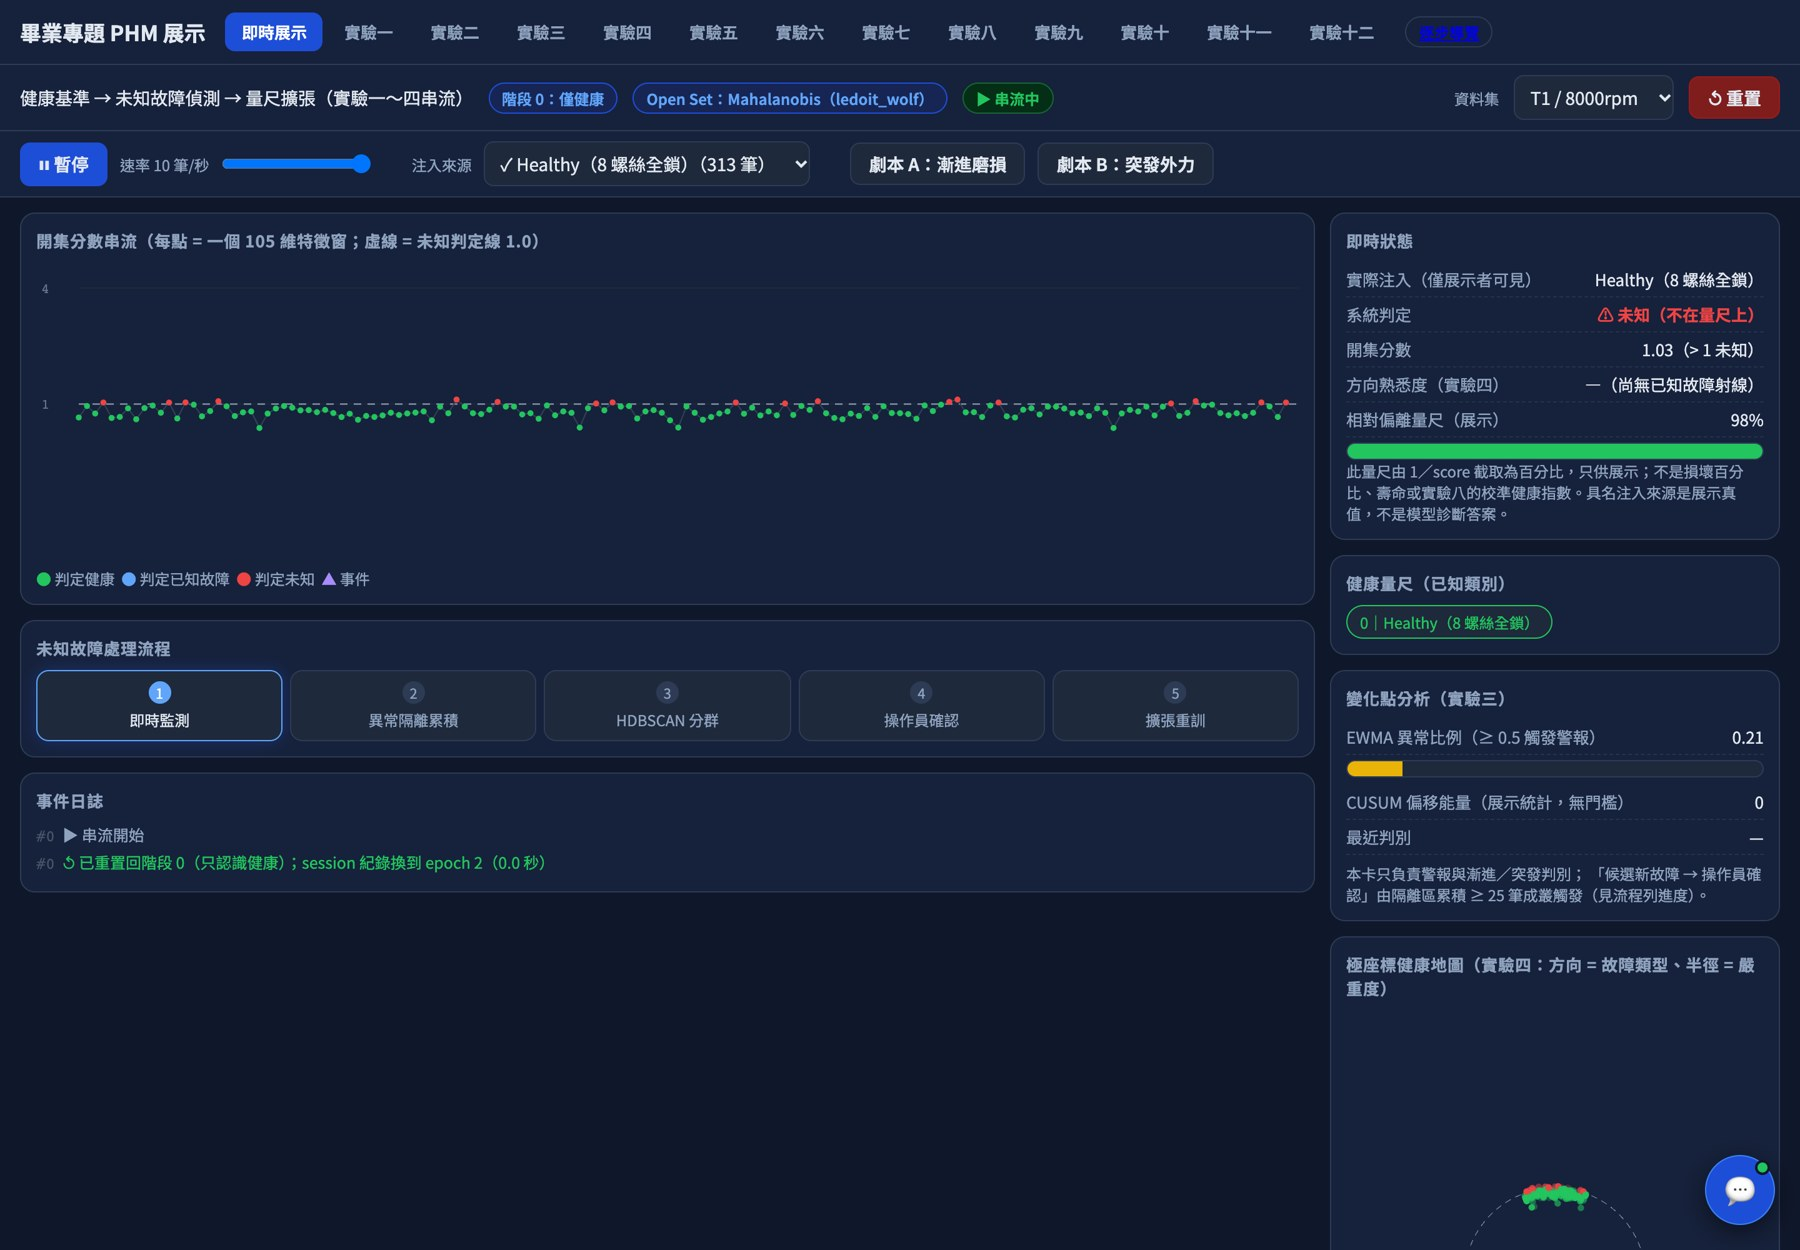
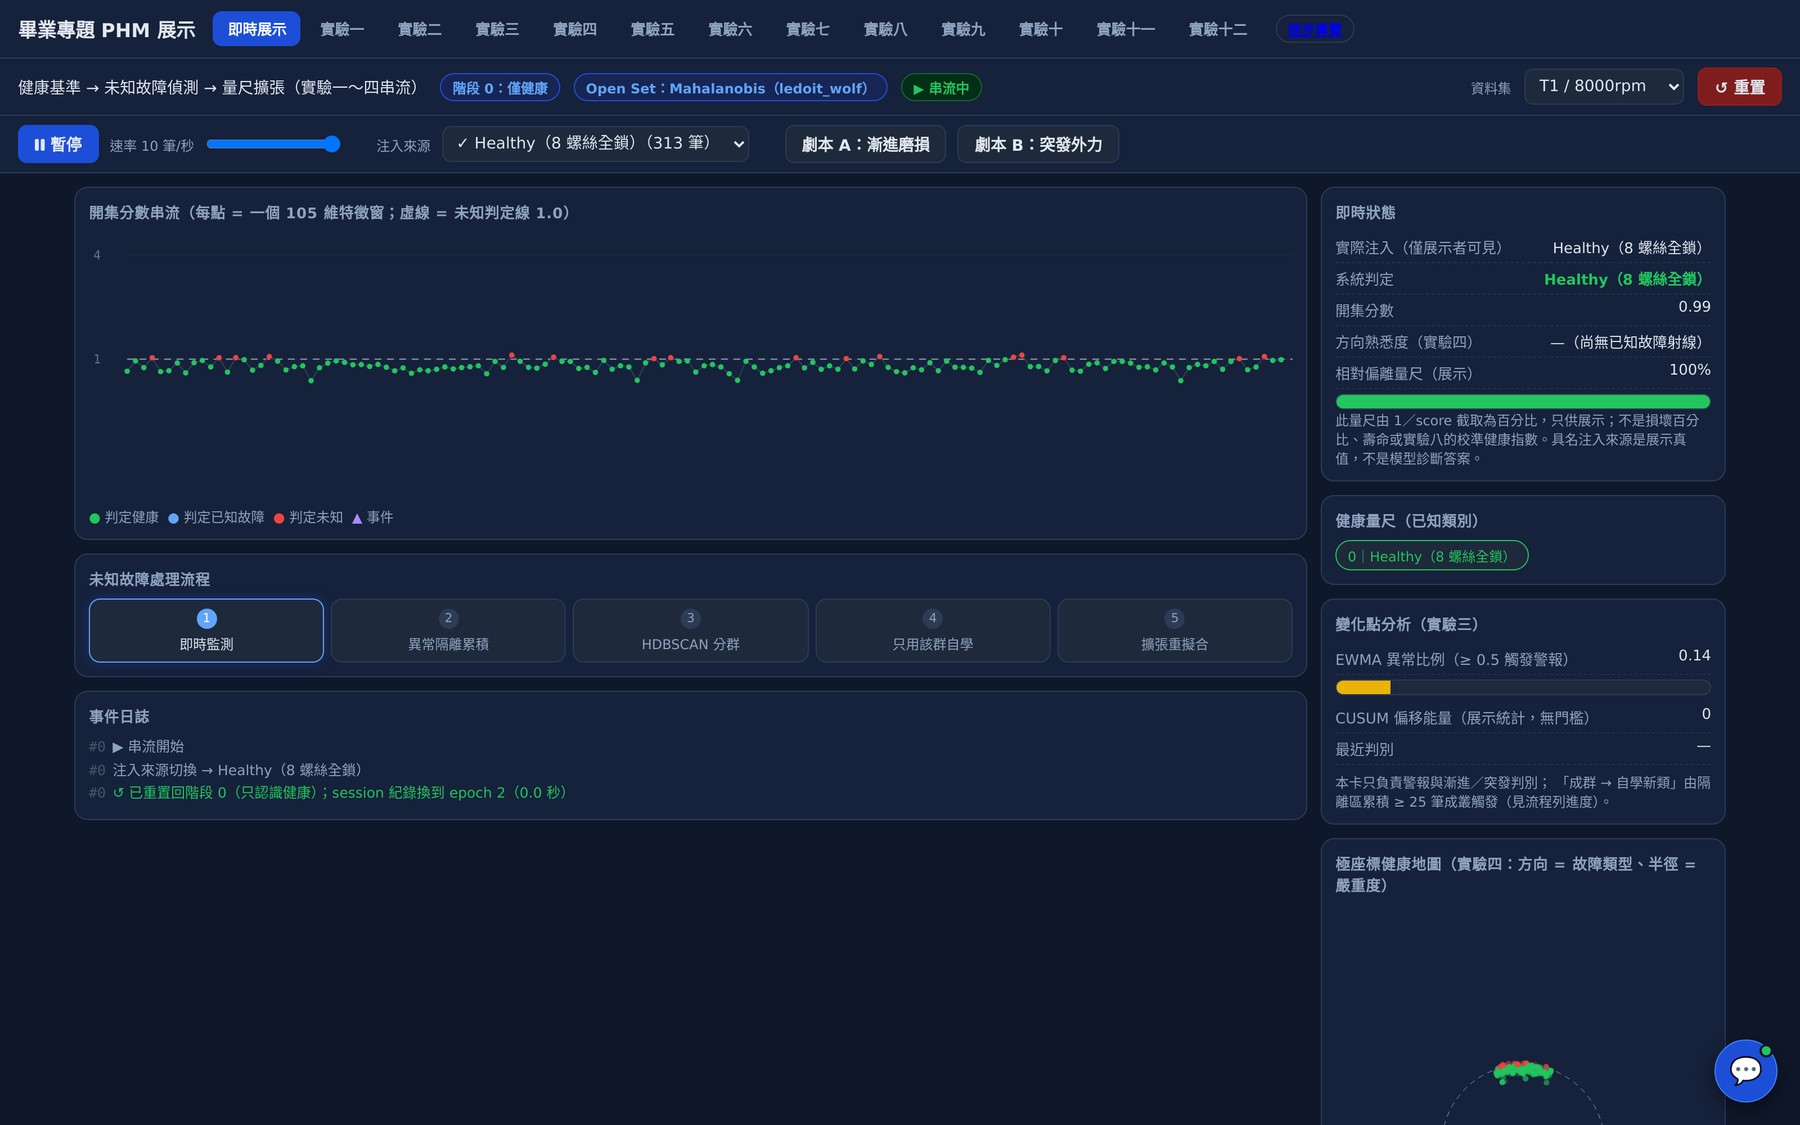
文件(報告)：圖4.1～4.4 以 Aero 部署站（ecf8d67）重拍，改寫為自動納入流程，圖4.4 與 CLI 11-56-10 一致
Refs #287
Refs #315

diff --git a/docs/FinalReport/畢業專題報告.md b/docs/FinalReport/畢業專題報告.md
@@ -776,7 +776,7 @@ legacy 矩陣（最近類別判讀，#266）：已知五類的對角為 464／46
 | --- | --- | --- | --- |
 | 同工況拒絕 | 九工況未知召回 100%；Ledoit–Wolf 健康誤報：實驗六平均 7.11%，實驗一 T1／8000 rpm 為 10.94% | 健康 holdout 每工況只有 52～75 筆；AUROC 已飽和，要看固定門檻 | 統計模型，不需 GPU；換工況就要重建基準 |
 | 新類自學（`adopt()`） | 預設設定三個 seed 各 7／9 段對上本階段配置、各有一種配置從未被認出；健康混入 1,430 筆無一進隔離區 | 外部評估集與回放列同屬一個配置池；首頁與導覽走同一個 `adopt()`，沒有另一條讀完整池的路徑 | 依賴自適應密度階梯；關掉後只剩 1～5 段對上 |
-| Web 回放 | 實驗頁直接呼叫實驗模組的 `run()`／`iter_run()`；導覽與首頁兩方法各 595 筆逐筆零差異 | 播放速率不是採樣時鐘；首頁的事後對照訊息會顯示群的真實多數 | 首頁、實驗頁與導覽可在 Spark 啟動操作（圖4.1～圖4.4）；沒有系統性量測回應時間 |
+| Web 回放 | 實驗頁直接呼叫實驗模組的 `run()`／`iter_run()`；導覽與首頁兩方法各 595 筆逐筆零差異 | 播放速率不是採樣時鐘；首頁的事後對照訊息會顯示群的真實多數 | 首頁、實驗頁與導覽可在 Aero／Spark 的 Docker 部署啟動操作（圖4.1～圖4.4 擷取自 Aero）；沒有系統性量測回應時間 |
 | 使用者滿意度 | 尚未進行 | 尚未進行 | 尚未進行 |
 
 **同工況拒絕。** 正確性方面，第 4.3 節的結果一致：同一工況內九種配置全部被拒絕。健康誤報是主要的誤差來源，Ledoit–Wolf 的九工況平均為 7.11%，T1／8000 rpm 單格為 10.94%，都高於名目 5%。適當性方面，健康 holdout 每個工況只有 52～75 筆，一筆誤報就是 1.3～1.9 個百分點；正式矩陣三個 seed 的健康接受率標準差約 4 個百分點，實驗七在同一格上 Ledoit–Wolf 與 k-NN 也差了 6 筆，所以「誤報約 5%～11%」比單一數字更貼近事實。AUROC 全為 1 表示這個任務在同工況下太容易，方法之間的差異幾乎只剩門檻校準。可行性方面，擬合只用健康 train 的 RobustScaler 與 Ledoit–Wolf 估計，沒有訓練迴圈，不需要 GPU（README「即時展示介面」一節）。代價是每個工況都要先收一批健康資料：實驗五的 72 格跨工況組合健康接受率全為 0，基準不能跨工況共用。
@@ -789,39 +789,39 @@ legacy 矩陣（最近類別判讀，#266）：已知五類的對角為 464／46
 
 **Web 回放。** 正確性方面，依 AGENT.md 鐵則 2，判定、分群與統計邏輯只放在 `src/experiments/` 與 `src/core/`；實驗頁由 `src/web/experiments.py` 呼叫各實驗的 `run()` 或 `iter_run()`，首頁 `src/web/live.py` 與導覽 `src/web/guide.py` 共用 `ScaleGrowthSession` 與 `OpenSetMonitor`。實驗十三在 Aero 以 `8756c51` 重跑的 `output/navigation_regression/2026-10-23-12-48-17/summary.json` 中，Mahalanobis 與 k-NN 各逐筆配對 595 筆，不一致 0 筆，兩條路徑都在故障窗到達 75 筆時產生候選、同一拍以 `adopt()` 學成 `discovered-1`（51 筆，只切 30／10／11，fit audit `navigation_fit_v2` 標明來源是隔離區候選群），並對劇本 A、B 各發出警報；配對數與候選到達筆數與 `confirm()` 版的 `02-04-52` 及總手冊第 8.17 節引用的 Lineage `3aa554f` 結果相同。零差異只表示兩條路徑算出相同結果，兩條路徑也可能一起判錯。
 
-下面四張截圖是同一次操作的順序。圖4.1 是首頁只認識健康時的串流：注入來源為健康，分數大多貼在判定線 1.0 下方，偶有幾點略為超線，對應約一成的健康誤報；相對偏離量尺取 `clip(1/score)`，與實驗八的健康指數定義不同（總手冊第 9.4 節）。
+下面四張截圖是同一次操作的順序。圖4.1 是首頁只認識健康時的串流：注入來源為健康，分數大多貼在判定線 1.0 下方，偶有幾點略為超線；偵測統計表上健康來源 135 窗、判未知 11.1%，對應約一成的健康誤報。相對偏離量尺取 `clip(1/score)`，與實驗八的健康指數定義不同（總手冊第 9.4 節）。
 
 ![圖4.1 首頁健康串流](figures/fig4-1_首頁健康串流.jpg)
 
 圖4.1 首頁健康串流
 
-> 圖名在 Word 置中。2026-10-23 擷取自在 Spark（aarch64）執行的網頁原型，main commit `7a2c7ca`，資料集 T1／8000rpm，seed 42，速率 10 筆／秒。
+> 圖名在 Word 置中。2026-10-23 擷取自 Aero（x86_64）部署站 `phm.jw-albert.dev`（Docker，main commit `ecf8d67`），資料集 T1／8000rpm，seed 42，速率 10 筆／秒；以無頭 Chromium 依序操作截圖。
 
-切換注入來源為 `7screws` 後，分數立刻升到 30 以上，變化點卡判為突發（這次是直接切換來源，沒有走劇本 A）。圖4.2 是隔離區累積後 HDBSCAN 找出候選群的畫面：事件日誌記錄第 216 筆時隔離區 65 筆、已試 5 次仍未成群，第 256 筆找到 80 筆、純度 100% 的群，流程列停在當時的「操作員確認」步驟。
+切換注入來源為 `7screws` 後，分數立刻升到 30 以上，變化點卡判為突發（這次是直接切換來源，沒有走劇本 A）。圖4.2 是成群當拍的畫面：事件日誌記錄第 211 筆時隔離區 65 筆、已試 5 次仍未成群；第 251 筆 HDBSCAN 找到 80 筆的群（蒐集區間 #147～#250），同一拍以 `adopt()` 納入為「模型新類 1」（群中位分數 36.7，大於已知校準最大 1.12），重新擬合後清理隔離區 25 筆，沒有操作員確認。新類自學卡與事件日誌最後一行的「事後對照」由注入真值算出：這一群的真實多數是 `7screws`、純度 100%，只供展示者對照，不進模型。
 
-![圖4.2 首頁候選群確認](figures/fig4-2_首頁候選群確認.jpg)
+![圖4.2 首頁自動納入新類](figures/fig4-2_首頁自動納入新類.jpg)
 
-圖4.2 首頁候選群確認
+圖4.2 首頁自動納入新類
 
-> 圖名在 Word 置中。2026-10-23 擷取自在 Spark（aarch64）執行的網頁原型，main commit `7a2c7ca`，資料集 T1／8000rpm，seed 42，速率 10 筆／秒。擷取時首頁還有操作員確認按鈕（`confirm()`），候選卡在按下確認之前就顯示純度與注入的真實配置；#287 之後首頁在成群當拍自動 `adopt()`，這張圖裡的確認步驟與候選卡已不存在；真值只出現在事後對照訊息與新類自學卡標成「事後對照」的欄位。
+> 圖名在 Word 置中。2026-10-23 擷取自 Aero（x86_64）部署站 `phm.jw-albert.dev`（Docker，main commit `ecf8d67`），資料集 T1／8000rpm，seed 42，速率 10 筆／秒；以無頭 Chromium 依序操作截圖。
 
-擷取時按下確認後，首頁呼叫當時的 `confirm()`，讀 `7screws` 的完整資料池重新擬合。圖4.3 的事件日誌顯示第 276 筆納入為類別 1、重新擬合完成（0.1 秒），健康量尺多了「7 螺絲」，之後同配置的窗判為已知故障（藍點），分數回到 1 以下。現行首頁改在成群當拍 `adopt()`，只用群內樣本，量尺上的類名是「模型新類 1」而不是配置名；這兩張圖尚未以 #287 之後的程式重拍。
+圖4.3 是納入後約 15 秒：量尺多了 `discovered-1`，之後同配置的窗大多判為已知故障（藍點），分數回到 1 附近。偵測統計表依模型狀態分段：擴張前 `7screws` 105 窗全部判未知；擴張後 169 窗中判為新類 88.8%、判為未知 11.2%、判為健康 0.0%。這 169 窗只抽未拿去擬合 `discovered-1` 的列（#296），不是批次的外部評估集。
 
-![圖4.3 首頁確認後量尺擴張](figures/fig4-3_首頁確認後量尺擴張.jpg)
+![圖4.3 首頁擴張後量尺](figures/fig4-3_首頁擴張後量尺.jpg)
 
-圖4.3 首頁確認後量尺擴張
+圖4.3 首頁擴張後量尺
 
-> 圖名在 Word 置中。2026-10-23 擷取自在 Spark（aarch64）執行的網頁原型，main commit `7a2c7ca`，資料集 T1／8000rpm，seed 42，速率 10 筆／秒。擷取時的量尺擴張使用當時的 `confirm()` 讀完整配置池；該路徑已在 #287 移除。
+> 圖名在 Word 置中。2026-10-23 擷取自 Aero（x86_64）部署站 `phm.jw-albert.dev`（Docker，main commit `ecf8d67`），資料集 T1／8000rpm，seed 42，速率 10 筆／秒；以無頭 Chromium 依序操作截圖。
 
-實驗頁的實驗二是批次 `run()`。圖4.4 是在實驗頁按「執行」後的結果表：九段都形成新類、最後 10 類（「發現」欄只表示該段成形了新類，不代表辨識到該段配置，#286），逐段列出到候選所需筆數、群大小、純度、本類 holdout，以及外部評估集在該段學會當下被任一新類接受、判進對應新類的比例。擷取時的程式還沒有拒收重複列，表上的數字與當時 CLI 的 seed 42 輸出 `output/exp2_scale_growth/2026-10-23-01-30-54/stages.csv`（`46ed4d5`）相同，例如 `7screws` 段到候選 75 筆、群 45 筆、外部評估被任一新類接受 56.9%（`eval_known_rate`＝0.5692），`5screws` 段為 51 筆、29 筆、46.5%。現行程式（`b6e2b97`）的對應輸出 `11-56-10` 中，`7screws` 段相同，`5screws` 段為 63 筆、37 筆、93.0%，`4screws` 段未成群。這兩欄是各段剛學會時的值（欄名標「學會當下」），不是表4.9 使用的 `final_eval`。
+實驗頁的實驗二是批次 `run()`。圖4.4 是在實驗頁按「執行」後的結果：上方 KPI 為對上本階段配置 7／9、形成新類 8 次、最終 9 類（#286）；表格逐段列出形成新類與是否對上本階段配置、到候選所需筆數、群大小、純度、本類 holdout，以及外部評估集在該段學會當下被任一新類接受、判進對應新類的比例。表上數字與 CLI 輸出 `output/exp2_scale_growth/2026-10-23-11-56-10/stages.csv`（`b6e2b97`，Aero）逐段相同，例如 `5screws` 段到候選 63 筆、群 37 筆、學會當下外部評估 93.0%，`4screws` 段未成群，`3screws` 段學到的群事後多數是 `4screws`。這兩欄是各段剛學會時的值（欄名標「學會當下」），不是表4.9 使用的 `final_eval`。同一程式在 Spark（aarch64）上的逐段數字不同（例如 `2screws` 段 90 筆、群 69），跨架構的差異由 #315 追蹤，本報告的實驗二數字一律以 Aero 為準。
 
 ![圖4.4 實驗頁實驗二結果](figures/fig4-4_實驗頁實驗二結果.jpg)
 
 圖4.4 實驗頁實驗二結果
 
-> 圖名在 Word 置中。2026-10-23 擷取自在 Spark（aarch64）執行的網頁原型，main commit `7a2c7ca`，資料集 T1／8000rpm，seed 42，速率 10 筆／秒（上方背景串流）。這次是瀏覽器內執行，結果只存到 `output/web_server/{ts}/experiments/`，沒有另存 CLI 輸出；表中數字與 CLI 輸出 `2026-10-23-01-30-54` 一致。
+> 圖名在 Word 置中。2026-10-23 擷取自 Aero（x86_64）部署站 `phm.jw-albert.dev`（Docker，main commit `ecf8d67`），資料集 T1／8000rpm，seed 42，速率 10 筆／秒；以無頭 Chromium 依序操作截圖。 這次是瀏覽器內執行，結果只存到部署站的 `output/web_server/{ts}/experiments/`，沒有另存 CLI 輸出。截圖環境缺「⏵」字型，「邊跑邊畫」按鈕前的圖示顯示為方框。
 
-適當性方面，網頁每秒送幾筆是播放節奏，不是採樣時鐘。擷取時首頁的注入來源與候選卡直接顯示配置名稱（圖4.2）；現行首頁沒有候選卡，真值只出現在注入來源、事後對照訊息，以及新類自學卡標成「事後對照」的真實多數與純度欄。注入來源是展示者選的真值，不是系統推論出的故障名稱，講解時要和導覽、批次實驗分開。可行性方面，四張截圖顯示擷取時（`7a2c7ca`，#287 之前）首頁與實驗頁可在 Spark 上完成「健康監測→隔離→候選→確認→擴張」與實驗二批次執行；現行首頁在成群當拍自動 `adopt()`，沒有確認步驟。畫面上記錄的單次耗時是重新擬合 0.1 秒（圖4.3）與實驗二整次執行 2.47 秒（圖4.4）。這些是單次觀察，沒有在 Aero／Spark 系統性量測 `adopt()` 重擬合與串流的回應時間，`output/web_server/` 中的舊紀錄則來自 Windows 主機，依鐵則 13 不引用。
+適當性方面，網頁每秒送幾筆是播放節奏，不是採樣時鐘。首頁的注入來源直接顯示配置名稱，新類自學卡的「事後對照」欄也顯示真實多數與純度；這些是展示者選的真值與事後計算，不是系統推論出的故障名稱，講解時要和導覽、批次實驗分開（導覽不顯示這些）。可行性方面，四張截圖顯示現行部署（`ecf8d67`）的首頁與實驗頁可在 Aero 上完成「健康監測→隔離→成群→自動納入→擴張」與實驗二批次執行。畫面上記錄的單次耗時是實驗二整次執行 1.25 秒（圖4.4）。這些是單次觀察，沒有在 Aero／Spark 系統性量測 `adopt()` 重擬合與串流的回應時間，`output/web_server/` 中的舊紀錄則來自 Windows 主機，依鐵則 13 不引用。
 
 **批判意見。**
 
